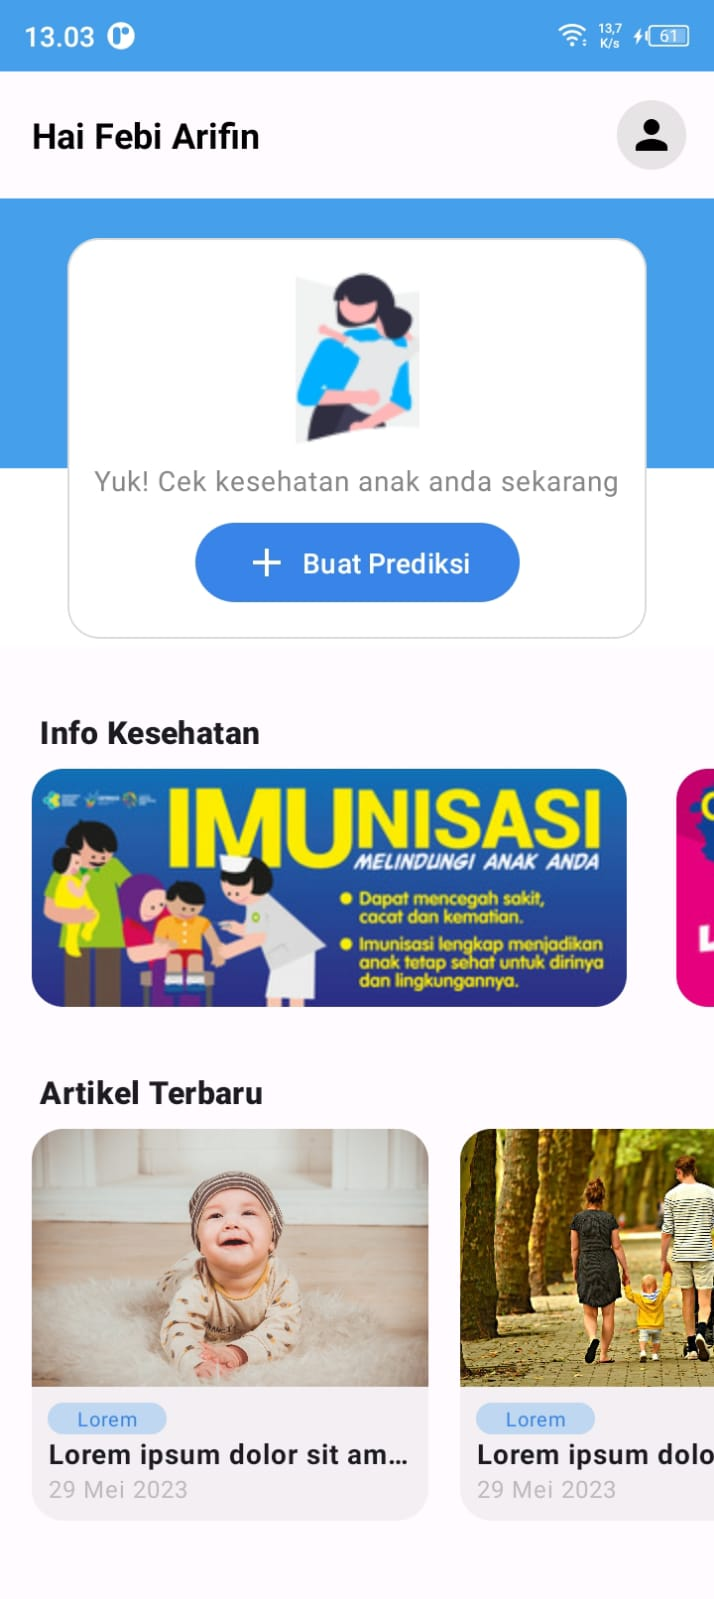
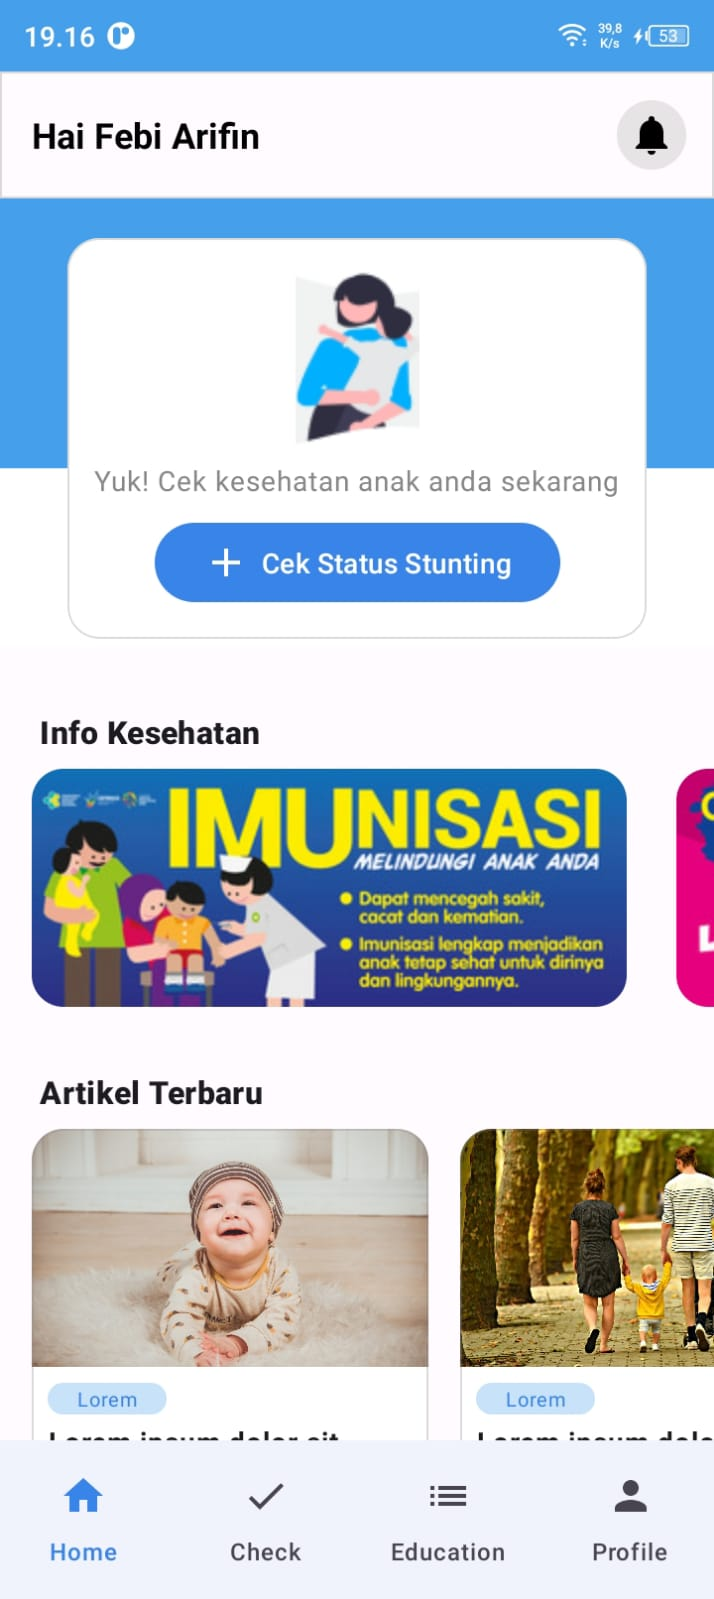
Update CheckScreen and README.md

diff --git a/app/src/main/java/com/febiarifin/stuntcare/ui/screen/check/CheckScreen.kt b/app/src/main/java/com/febiarifin/stuntcare/ui/screen/check/CheckScreen.kt
@@ -1,14 +1,21 @@
 import android.annotation.SuppressLint
 import android.content.Context
 import android.widget.Toast
+import androidx.compose.foundation.Image
+import androidx.compose.foundation.background
 import androidx.compose.foundation.border
 import androidx.compose.foundation.clickable
 import androidx.compose.foundation.layout.Arrangement
+import androidx.compose.foundation.layout.Box
 import androidx.compose.foundation.layout.Column
 import androidx.compose.foundation.layout.PaddingValues
 import androidx.compose.foundation.layout.Spacer
+import androidx.compose.foundation.layout.fillMaxHeight
+import androidx.compose.foundation.layout.fillMaxSize
 import androidx.compose.foundation.layout.height
 import androidx.compose.foundation.layout.padding
+import androidx.compose.foundation.layout.size
+import androidx.compose.foundation.layout.width
 import androidx.compose.foundation.lazy.LazyColumn
 import androidx.compose.foundation.lazy.items
 import androidx.compose.foundation.rememberScrollState
@@ -16,21 +23,29 @@ import androidx.compose.foundation.shape.RoundedCornerShape
 import androidx.compose.foundation.verticalScroll
 import androidx.compose.material.icons.Icons
 import androidx.compose.material.icons.filled.ArrowBack
+import androidx.compose.material3.Button
+import androidx.compose.material3.ButtonDefaults
 import androidx.compose.material3.ExperimentalMaterial3Api
 import androidx.compose.material3.Icon
 import androidx.compose.material3.IconButton
+import androidx.compose.material3.MaterialTheme
 import androidx.compose.material3.Scaffold
 import androidx.compose.material3.Text
 import androidx.compose.material3.TopAppBar
 import androidx.compose.runtime.Composable
+import androidx.compose.ui.Alignment
 import androidx.compose.ui.Modifier
+import androidx.compose.ui.draw.clip
 import androidx.compose.ui.graphics.Color
 import androidx.compose.ui.graphics.Outline
 import androidx.compose.ui.platform.LocalContext
+import androidx.compose.ui.res.painterResource
+import androidx.compose.ui.res.stringResource
 import androidx.compose.ui.text.font.FontWeight
 import androidx.compose.ui.tooling.preview.Preview
 import androidx.compose.ui.unit.dp
 import androidx.compose.ui.unit.sp
+import com.febiarifin.stuntcare.R
 import com.febiarifin.stuntcare.model.Article
 import com.febiarifin.stuntcare.model.Check
 import com.febiarifin.stuntcare.model.dummyArticle
@@ -67,7 +82,7 @@ fun CheckScreen() {
             )
         },
     ) {
-        Column{
+        Column {
             Column {
                 Spacer(modifier = Modifier.height(60.dp))
                 CheckList(dummyCheck)
@@ -81,16 +96,70 @@ fun CheckList(
     listCheck: List<Check>,
     modifier: Modifier = Modifier
 ) {
-    LazyColumn(
-        contentPadding = PaddingValues(16.dp),
-        verticalArrangement = Arrangement.spacedBy(8.dp),
-        modifier = modifier.padding(0.dp,0.dp,0.dp,80.dp)
-    ) {
-        items(listCheck, key = { it.id }) { check ->
-            CheckItem(
-                check,
-                modifier = Modifier.clickable{}
-            )
+    if (listCheck.isEmpty()) {
+        Column(
+            modifier = Modifier
+                .fillMaxSize(),
+            verticalArrangement = Arrangement.Center,
+            horizontalAlignment = Alignment.CenterHorizontally
+        ) {
+            Box(
+                modifier = Modifier
+                    .height(210.dp)
+                    .width(300.dp)
+                    .padding(4.dp)
+                    .clip(RoundedCornerShape(16.dp))
+                    .background(Color.White)
+                    .border(
+                        1.dp,
+                        shape = RoundedCornerShape(16.dp),
+                        color = Color.Gray.copy(alpha = 0.3f)
+                    ),
+            ) {
+                Column(
+                    modifier = Modifier.fillMaxSize(),
+                    verticalArrangement = Arrangement.Center,
+                    horizontalAlignment = Alignment.CenterHorizontally
+                ) {
+                    Image(
+                        modifier = Modifier
+                            .size(90.dp),
+                        painter = painterResource(R.drawable.banner_header),
+                        contentDescription = null
+                    )
+                    Spacer(modifier = modifier.height(8.dp))
+                    Text(
+                        fontSize = 14.sp,
+                        text = stringResource(R.string.jargon_1),
+                        color = Color.Gray
+                    )
+                    Spacer(modifier = modifier.height(8.dp))
+                    Button(
+                        onClick = { /*TODO*/ },
+                        colors = ButtonDefaults.buttonColors(MaterialTheme.colorScheme.secondary)
+                    ) {
+                        Icon(
+                            painter = painterResource(R.drawable.ic_add),
+                            contentDescription = null
+                        )
+                        Spacer(modifier = modifier.width(6.dp))
+                        Text("Cek Status Stunting")
+                    }
+                }
+            }
+        }
+    } else {
+        LazyColumn(
+            contentPadding = PaddingValues(16.dp),
+            verticalArrangement = Arrangement.spacedBy(8.dp),
+            modifier = modifier.padding(0.dp, 0.dp, 0.dp, 80.dp)
+        ) {
+            items(listCheck, key = { it.id }) { check ->
+                CheckItem(
+                    check,
+                    modifier = Modifier.clickable {}
+                )
+            }
         }
     }
 }

diff --git a/README.md b/README.md
@@ -3,5 +3,10 @@
 <table>
    <tr>
       <td><img src="screenshots/home.jpeg" align="center" alt="Home"></td>
+      <td><img src="screenshots/education.jpeg" align="center" alt="Education"></td>
+   </tr> 
+    <tr>
+      <td><img src="screenshots/check.jpeg" align="center" alt="Check"></td>
+      <td><img src="screenshots/check_empty.jpeg" align="center" alt="Check Empty"></td>
    </tr> 
 </table>
